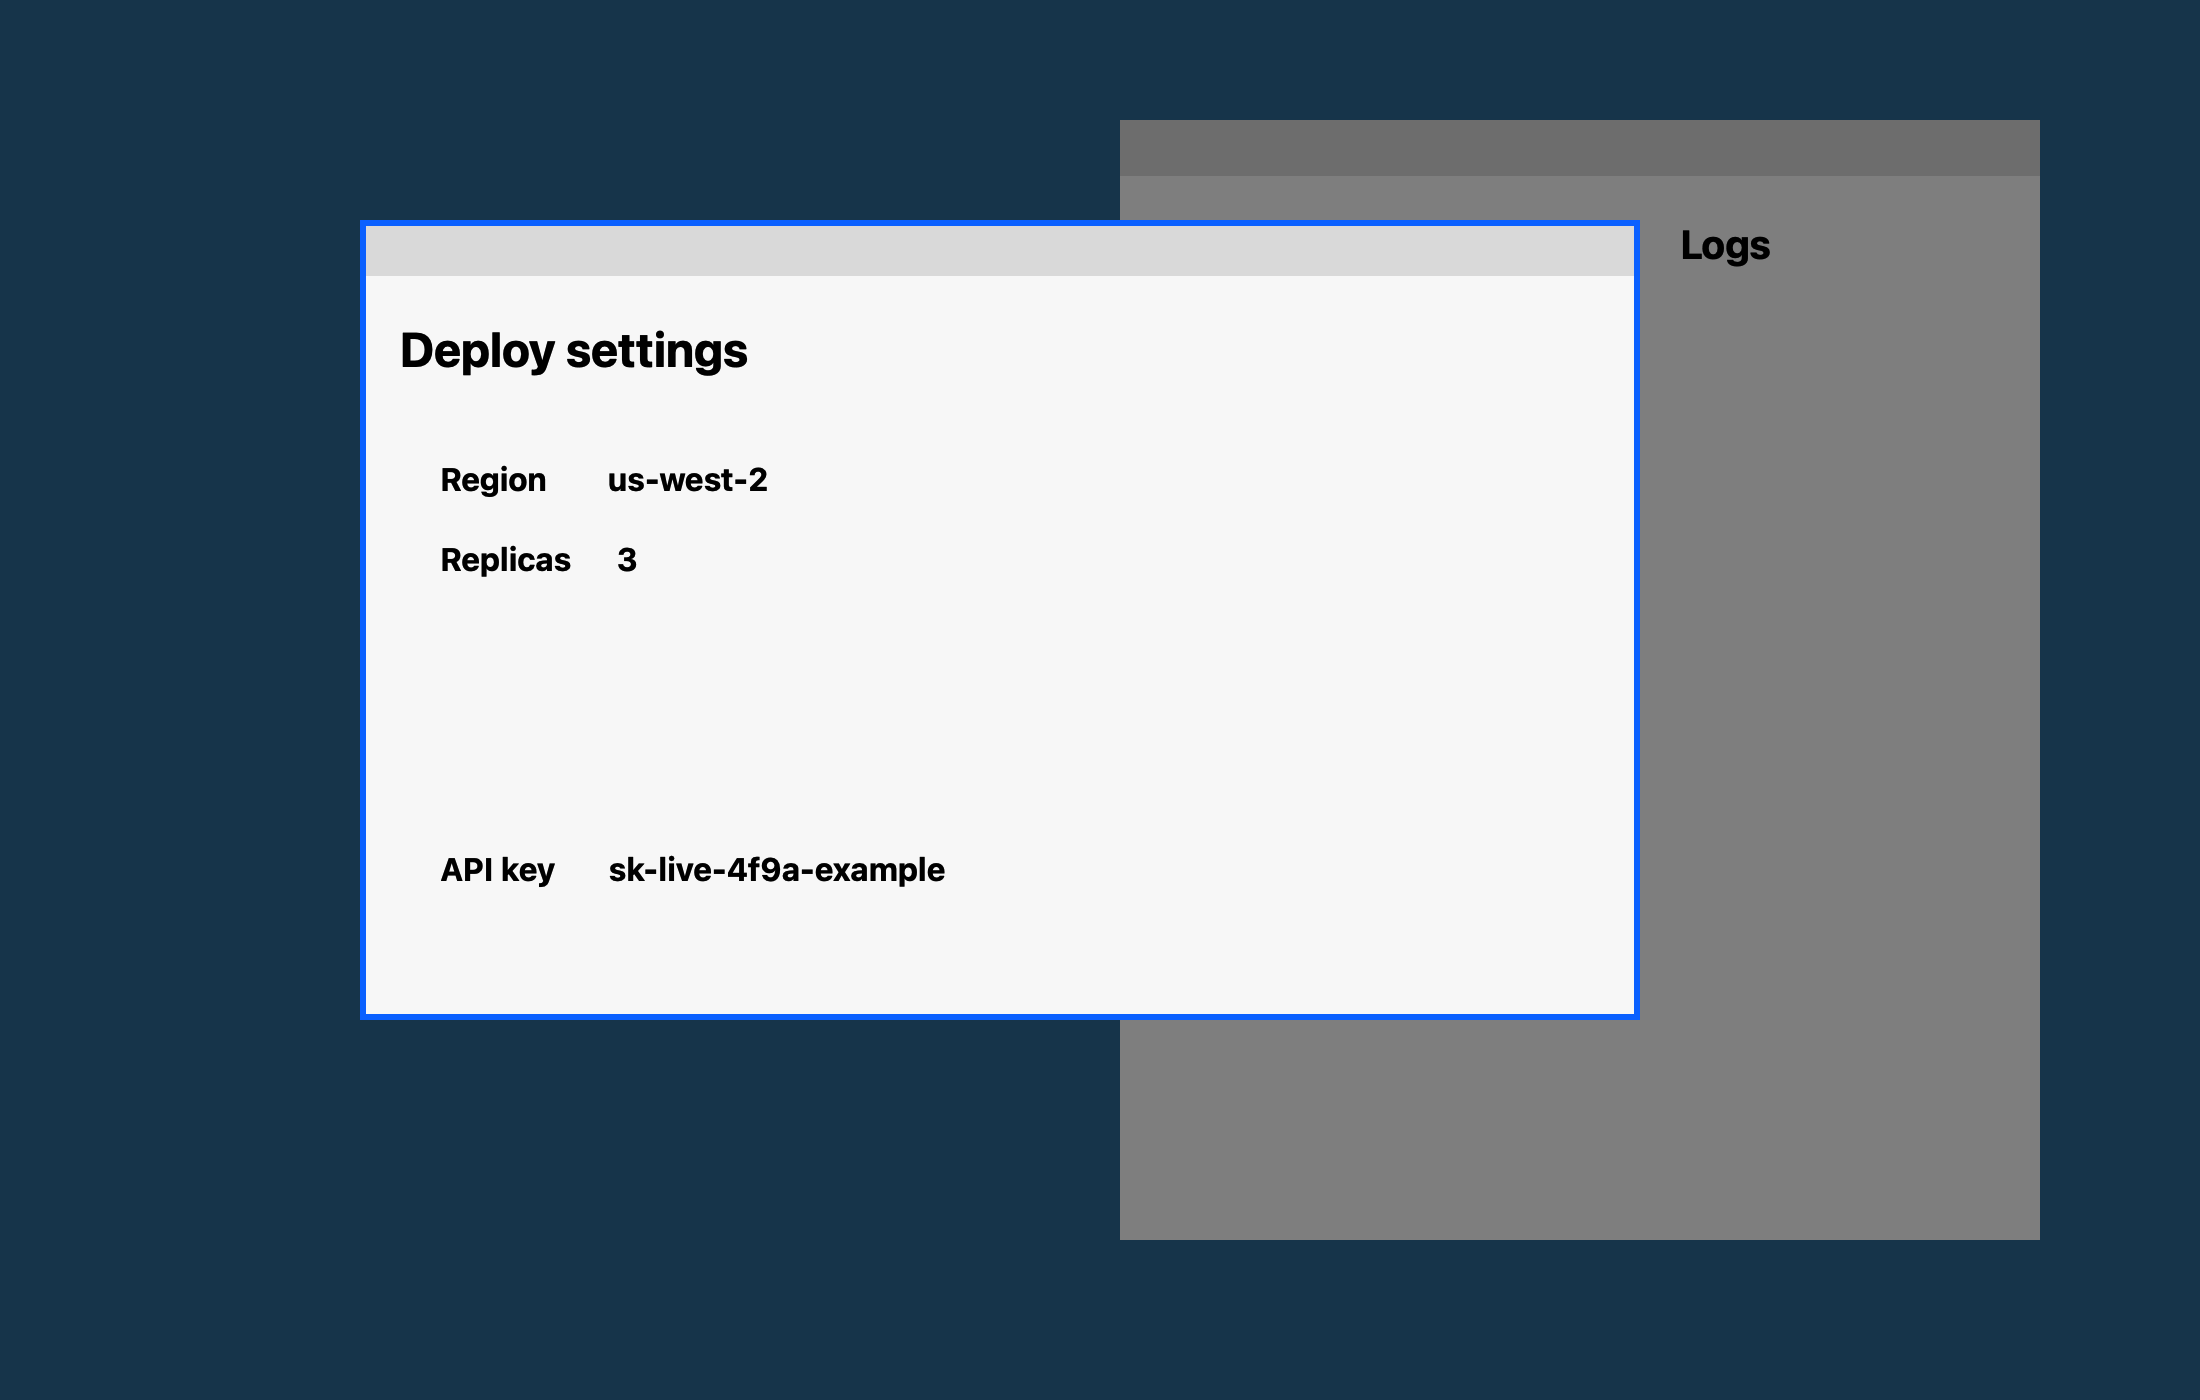
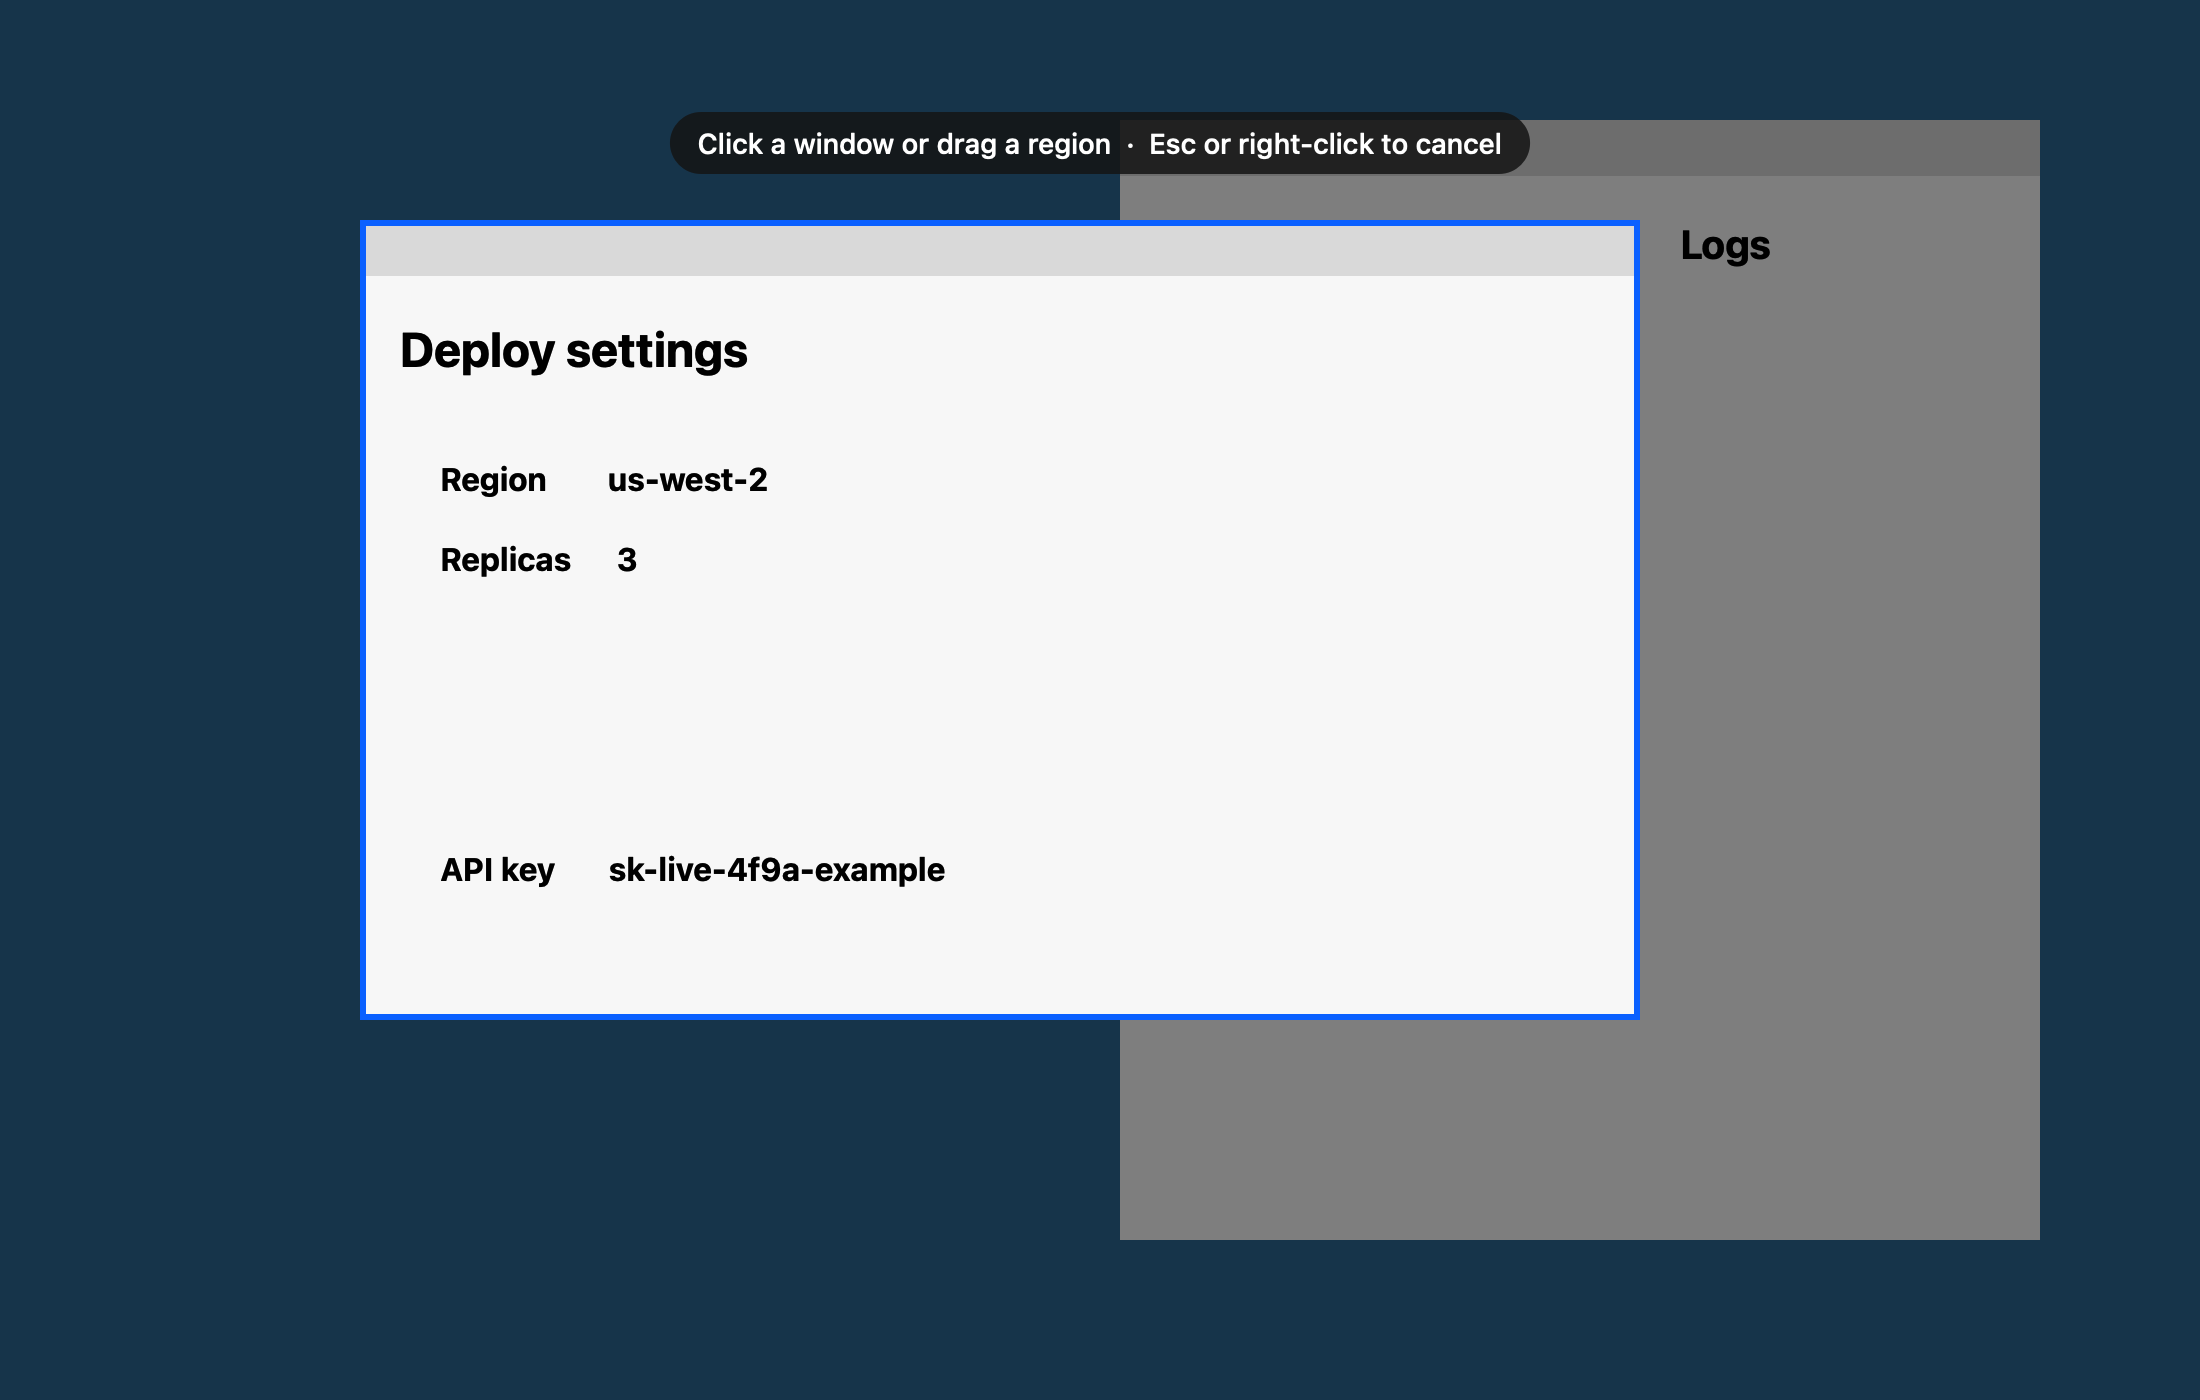
Show that a capture is in progress: crosshair pointer and a hint
The pointer is a crosshair wherever a click selects or draws, resize
arrows on the handles, an I-beam for the text tool and an arrow over the
toolbar. Until something is selected, a line at the top of each display
says what to do and how to cancel.

Changed region(s): [[0.3091, 0.0614, 0.7109, 0.1229]]

diff --git a/Sources/IgSnap/OverlayView.swift b/Sources/IgSnap/OverlayView.swift
@@ -58,7 +58,9 @@ final class OverlayView: NSView, NSTextFieldDelegate {
         trackingAreas.forEach(removeTrackingArea)
         addTrackingArea(
             NSTrackingArea(
-                rect: .zero, options: [.mouseMoved, .mouseEnteredAndExited, .activeAlways, .inVisibleRect], owner: self)
+                rect: .zero,
+                options: [.mouseMoved, .mouseEnteredAndExited, .cursorUpdate, .activeAlways, .inVisibleRect],
+                owner: self)
         )
     }
 
@@ -124,6 +126,31 @@ final class OverlayView: NSView, NSTextFieldDelegate {
 
     override func mouseMoved(with event: NSEvent) {
         hover(at: location(event))
+        cursor(at: location(event)).set()
+    }
+
+    override func cursorUpdate(with event: NSEvent) { cursor(at: location(event)).set() }
+
+    /// The pointer says what a click will do: a crosshair wherever it selects or draws (so the frozen screen
+    /// doesn't pass for the live one), resize arrows on the handles, an I-beam for text, an arrow on the toolbar.
+    func cursor(at p: CGPoint) -> NSCursor {
+        if !toolbar.isHidden, toolbar.frame.contains(p) { return .arrow }
+        guard let selection else { return .crosshair }
+        if let h = handle(at: p, in: selection, tolerance: 8) {
+            let position: NSCursor.FrameResizePosition =
+                switch h {
+                case .topLeft: .topLeft
+                case .top: .top
+                case .topRight: .topRight
+                case .right: .right
+                case .bottomRight: .bottomRight
+                case .bottom: .bottom
+                case .bottomLeft: .bottomLeft
+                case .left: .left
+                }
+            return .frameResize(position: position, directions: .all)
+        }
+        return selection.contains(p) && tool == .text ? .iBeam : .crosshair
     }
 
     /// Highlight the window under the point, while nothing is selected yet.
@@ -137,7 +164,10 @@ final class OverlayView: NSView, NSTextFieldDelegate {
     func seedHover() {
         guard let window, selection == nil else { return }
         let p = convert(window.mouseLocationOutsideOfEventStream, from: nil)
-        if bounds.contains(p) { hover = windowUnder(p, windows: windows)?.intersection(bounds) }
+        if bounds.contains(p) {
+            hover = windowUnder(p, windows: windows)?.intersection(bounds)
+            cursor(at: p).set()
+        }
         needsDisplay = true
     }
 
@@ -200,6 +230,7 @@ final class OverlayView: NSView, NSTextFieldDelegate {
         if let draft { annotations.append(draft) }
         (draft, drag) = (nil, nil)
         refresh()
+        cursor(at: location(event)).set()
     }
 
     // MARK: Keys
@@ -262,6 +293,19 @@ final class OverlayView: NSView, NSTextFieldDelegate {
 
     // MARK: Drawing
 
+    /// While nothing is selected: a line at the top of the display saying this is a capture and how to leave it.
+    private func drawHint() {
+        let text = NSAttributedString(
+            string: "Click a window or drag a region  ·  Esc or right-click to cancel",
+            attributes: [.font: NSFont.systemFont(ofSize: 14, weight: .medium), .foregroundColor: NSColor.white])
+        let size = text.size()
+        let pill = CGRect(
+            x: (bounds.width - size.width) / 2 - 14, y: 56, width: size.width + 28, height: size.height + 14)
+        NSColor(white: 0.1, alpha: 0.85).setFill()
+        NSBezierPath(roundedRect: pill, xRadius: pill.height / 2, yRadius: pill.height / 2).fill()
+        text.draw(at: CGPoint(x: pill.minX + 14, y: pill.minY + 7))
+    }
+
     override func draw(_ dirtyRect: NSRect) {
         guard let ctx = NSGraphicsContext.current?.cgContext else { return }
         // ponytail: the whole display image is redrawn on every mouse move. Fine on Apple silicon at 5K; if it
@@ -281,6 +325,7 @@ final class OverlayView: NSView, NSTextFieldDelegate {
         ctx.fillPath(using: .evenOdd)
 
         guard let selection else {
+            drawHint()
             if let hover {
                 ctx.setStrokeColor(NSColor.controlAccentColor.cgColor)
                 ctx.setLineWidth(3)

diff --git a/Sources/IgSnap/SelfTest.swift b/Sources/IgSnap/SelfTest.swift
@@ -71,6 +71,10 @@ func selfTest() -> Bool {
     view.mouseUp(with: mouse(.leftMouseUp, 750, 550, in: window))
     check(view.selection == nil, "a click on no window selects nothing")
 
+    check(
+        view.cursor(at: CGPoint(x: 300, y: 300)) == .crosshair, "the pointer is a crosshair before anything is selected"
+    )
+
     print("region")
     (view, window) = makeView()
     drag(view, window, from: CGPoint(x: 600, y: 500), to: CGPoint(x: 200, y: 100))
@@ -122,6 +126,20 @@ func selfTest() -> Bool {
     view.keyDown(with: key("z", command: true, in: window))
     check(view.subviews.compactMap { $0 as? NSTextField }.isEmpty, "⌘Z drops an open text field")
     check(window.firstResponder === view, "and the keyboard is back on the overlay")
+
+    print("pointer")
+    if let selection = view.selection {
+        let inside = CGPoint(x: selection.midX, y: selection.midY)
+        view.keyDown(with: key("a", in: window))
+        check(view.cursor(at: inside) == .crosshair, "a crosshair inside the selection with a drawing tool")
+        check(view.cursor(at: CGPoint(x: selection.maxX, y: selection.maxY)) != .crosshair, "resize arrows on a handle")
+        view.keyDown(with: key("t", in: window))
+        check(view.cursor(at: inside) == .iBeam, "an I-beam with the text tool")
+        view.keyDown(with: key("a", in: window))
+    }
+    if let bar = view.subviews.compactMap({ $0 as? Toolbar }).first {
+        check(view.cursor(at: CGPoint(x: bar.frame.midX, y: bar.frame.midY)) == .arrow, "an arrow over the toolbar")
+    }
 
     print("toolbar")
     let toolbar = view.subviews.compactMap { $0 as? Toolbar }.first
